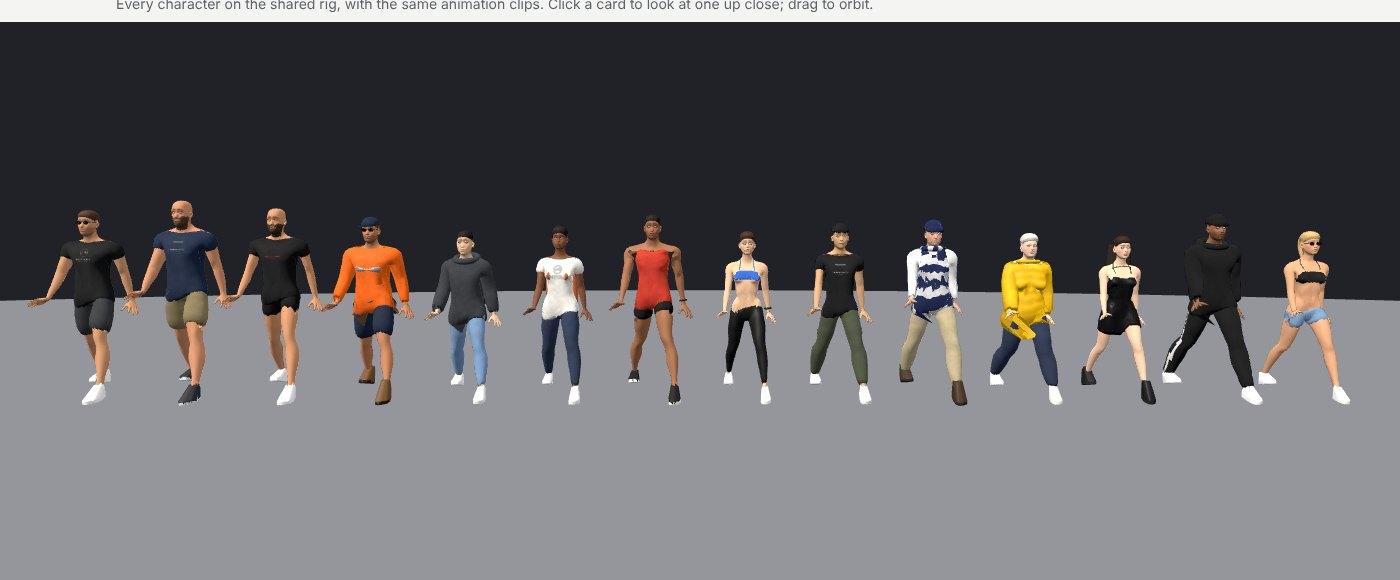
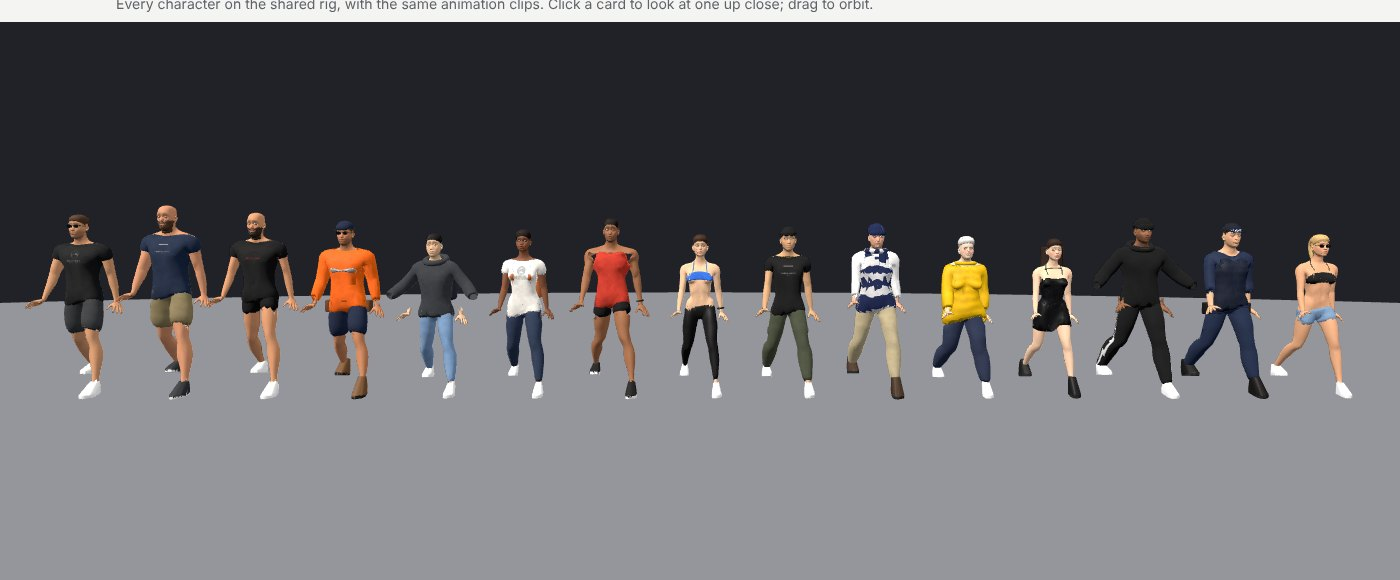
Characters: catalogue and lineup with the Victoria Police officer
Claude-Session: https://claude.ai/code/session_013JhZHkuNVakSzF1nz65LVF

Changed region(s): [[0.0, 0.3414, 1.0, 0.7138]]

diff --git a/characters/README.md b/characters/README.md
@@ -14,7 +14,7 @@ character, with a button for each clip and a card per character listing the outf
 | 1 | Male and female base characters | Done: Aussie Bloke and Aussie Girl |
 | 2 | Shared humanoid rig and animations | Done: one skeleton, 9 clips, all characters |
 | 3 | Interchangeable clothing | Done: 30 garment and accessory kinds, tattoos, 6 hair styles |
-| 4 | The remaining 10 character types | Done: 14 characters in all |
+| 4 | The remaining 10 character types | Done: 15 characters in all, including Victoria Police |
 | 5 | Materials, skins and colour variations | Done: recolourable garments, skin, hair, iris and print textures |
 | 6 | GLB export and browser check | Done: three.js r128 and r170 both load them. They run in the game |
 | 7 | Catalogue and preview scene | Done: `catalogue.html`, `catalogue.json`, `previews/` |
@@ -36,6 +36,7 @@ character, with a button for each clip and a card per character listing the outf
 | `old_bruce` | Older male | Off to the footy: hooped jumper over a long-sleeve, scarf and beanie, slacks, brown shoes | 17.0k / 6.7k |
 | `old_marg` | Older female | Short grey hair. Yellow Melbourne rain jacket, navy slacks | 14.5k / 5.8k |
 | `night_jess` | Nightlife | Long dark hair, red lips. Black satin slip dress, ankle boots, chain | 16.3k / 5.7k |
+| `cop_vic` | Victoria Police | Navy shirt and cargo pants, duty vest, belt, boots, cap with the blue-and-white chequered band | 16.5k / 6.5k |
 | `gang_tama` | Street gang | Black hoodie, black trackies with white stripes, beanie, chain, tattooed sleeves and neck | 19.2k / 7.4k |
 
 Each character has three exports in `exports/`:
@@ -102,6 +103,7 @@ hi-vis mesh, athletic mesh, satin and lycra.
 
 `index.html` loads `trent.glb` for the player and the `_crowd` versions for pedestrians. Pedestrians are picked by role:
 - gang members get the gang character
+- police get the Victoria Police officer
 - runners on the Tan and the athletics track get the gym pair
 - bald pedestrians get Gaz
 - everyone else is drawn from the everyday cast by sex
